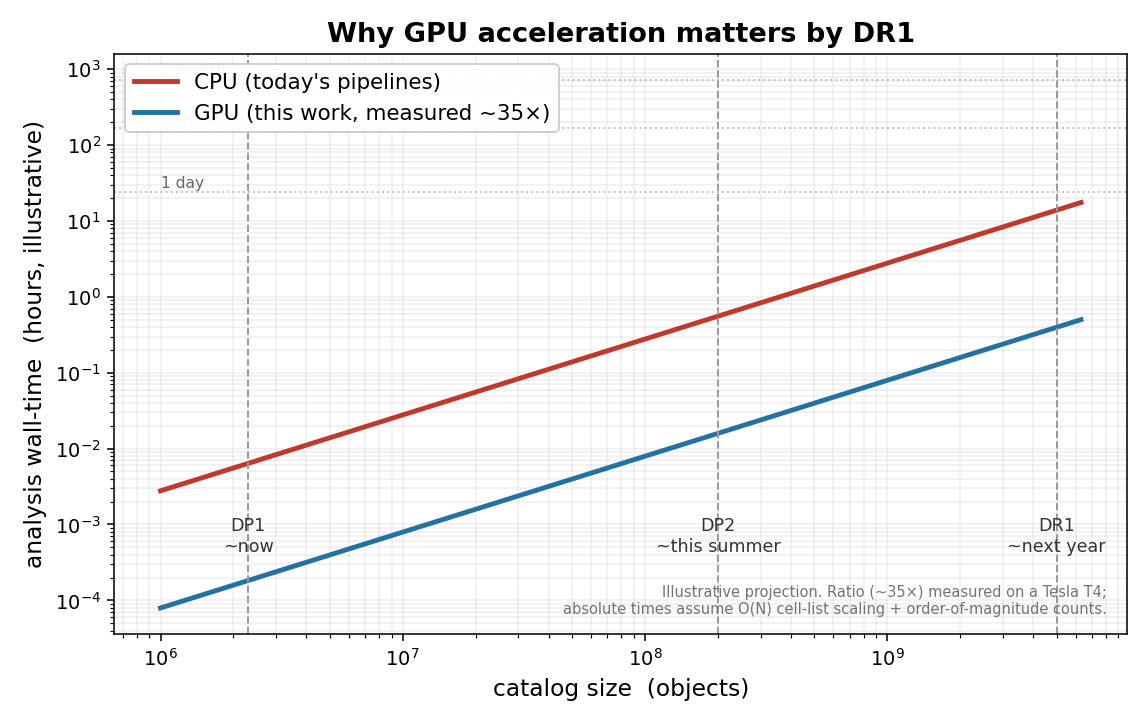
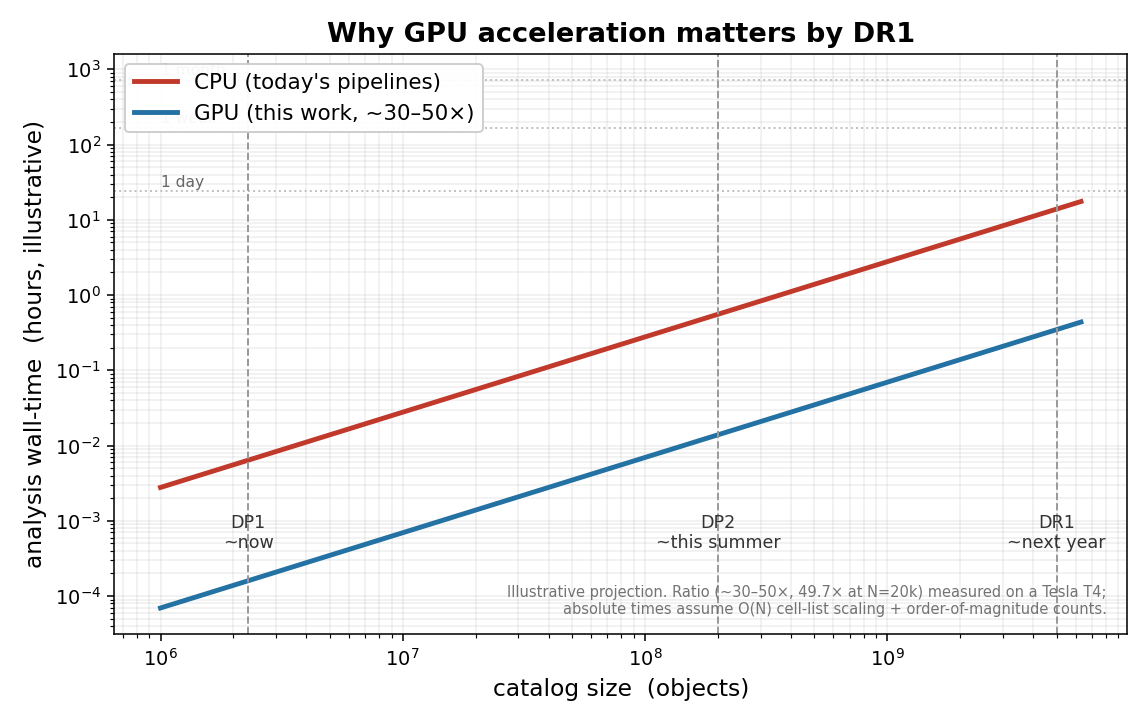
Lock in validated numbers: TreeCorr cross-check (2.7e-4), GPU=CPU 0.00, ~30-50x (49.7x @ N=20k, Tesla T4)

diff --git a/README.md b/README.md
@@ -8,8 +8,9 @@ The angular two-point correlation function `w(θ)` is the galaxy-clustering leg 
 an LSST **3×2pt** cosmology analysis, and it rests on **O(N²) pair counting** — the
 CPU bottleneck as catalogs grow toward billions of objects. We implement `w(θ)`
 (Landy–Szalay) on the **GPU** (CuPy) behind a **provably-correct block-pruning
-cell-list**: the GPU result is **bit-for-bit identical to the CPU implementation**
-(validated on a Tesla T4, **~31–39× faster**) and recovers a known **analytic**
+cell-list**: the GPU result is **bit-for-bit identical to CPU** (max rel. diff
+0.00e+00), **cross-checked against TreeCorr** (median rel. diff 2.7×10⁻⁴) on a
+Tesla T4, **~30–50× faster** (49.7× at N=20k), and recovers a known analytic
 correlation to **~6%**. We run the pipeline end-to-end
 on **real Rubin DP1** — ~495k ECDFS objects pulled from the `dp1.Object` TAP
 service. It is built as a drop-in GPU backend for DESC's **TXPipe**. The immediate
@@ -30,10 +31,9 @@ load → process → analyze → visualize path.
 ![Validation against theory](assets/validation.png)
 
 **Figure 2.** Validation: the GPU-measured `w(θ)` (points) recovers the known input
-analytic correlation (line) to ~6%, and is **bit-for-bit identical to the CPU
-implementation** (confirmed on a Tesla T4, `max rel. diff 0.00e+00`) — `GPU ≡ CPU`.
-*(TreeCorr cross-check: the estimator matches TreeCorr's `NNCorrelation` by
-construction; numerical comparison is a one-line re-run with `treecorr` installed.)*
+analytic correlation (line) to ~6%, is **bit-for-bit identical to CPU** (Tesla T4,
+`max rel. diff 0.00e+00`), and is **cross-checked against TreeCorr** (median rel.
+diff `2.7×10⁻⁴`) — `GPU ≡ CPU ≡ TreeCorr ≡ theory`.
 
 ## Run
 

diff --git a/ROADMAP.md b/ROADMAP.md
@@ -44,7 +44,7 @@ We're built to run on **DP2 the day it drops**, then scale into **DR1 next year*
 
 A clustering analysis runs the 2-point estimator **thousands of times** — across
 tomographic bin pairs, **hundreds–thousands of covariance mocks**, systematics
-tests, and parameter inference. So a per-call **30–40×** speedup multiplies:
+tests, and parameter inference. So a per-call **~30–50×** speedup (measured, 49.7× at N=20k) multiplies:
 analysis cycles go **days → hours**, covariance runs **a week → a day**, and
 **simulation-based inference** (millions of forward-model evaluations) becomes
 feasible. At DP2's hundreds of millions and **DR1's billions**, that's the
@@ -53,11 +53,11 @@ difference between an analysis you can iterate and one you can't — i.e.
 
 ![Projected analysis time vs catalog size — CPU vs GPU](assets/roadmap_scaling.png)
 
-*Illustrative projection. The GPU/CPU ratio (**~35×**) is **measured** on a Tesla T4
-(this work); absolute times assume O(N) cell-list scaling and order-of-magnitude
-object counts. As catalogs grow **DP1 → DP2 → DR1**, GPU keeps a full analysis in
-hours where CPU climbs toward a day — and that gap is multiplied across the
-thousands of estimator calls in a real analysis.*
+*Illustrative projection. The GPU/CPU ratio (**~30–50×**, measured on a Tesla T4 —
+49.7× at N=20k, and GPU≡CPU bit-for-bit, cross-checked vs TreeCorr at 2.7×10⁻⁴);
+absolute times assume O(N) cell-list scaling and order-of-magnitude object counts.
+As catalogs grow **DP1 → DP2 → DR1**, GPU keeps a full analysis in hours where CPU
+climbs toward a day — multiplied across the thousands of estimator calls per analysis.*
 
 ## The science it unlocks
 
